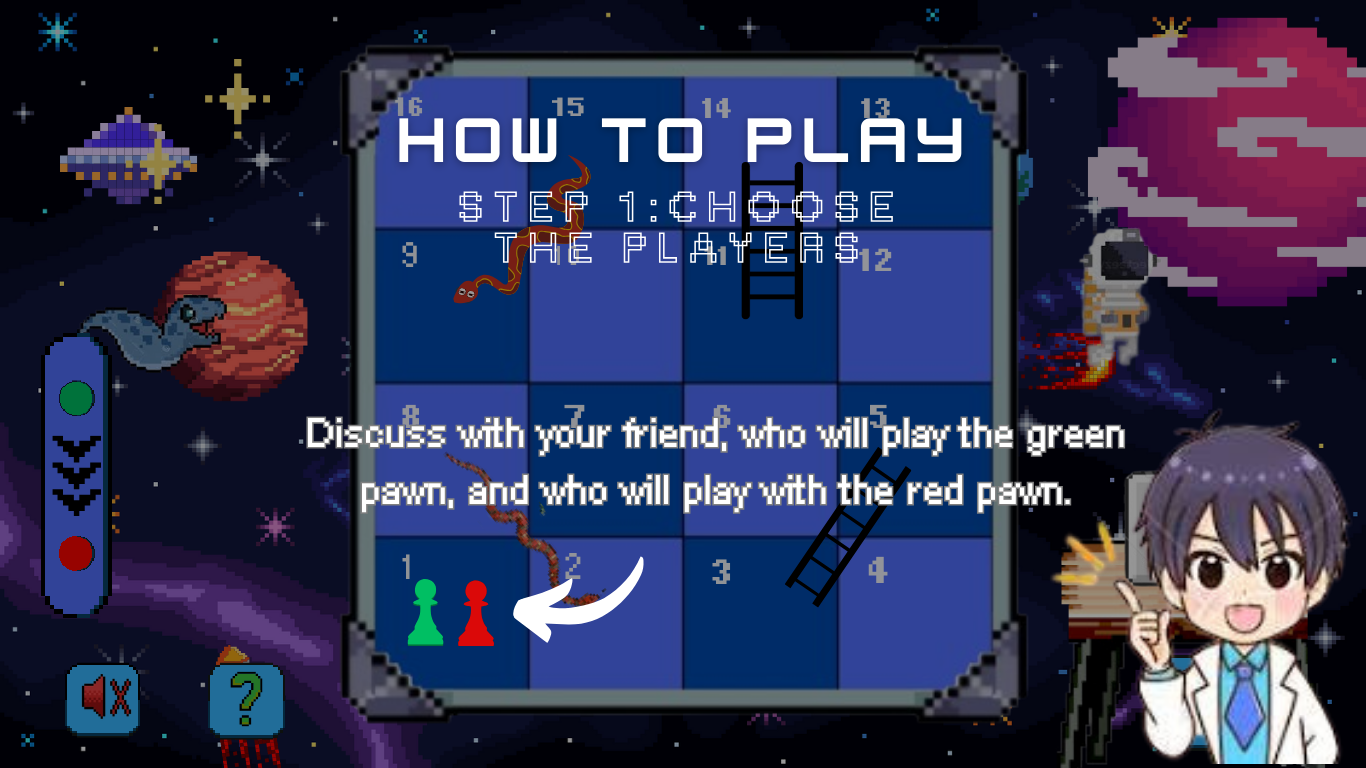
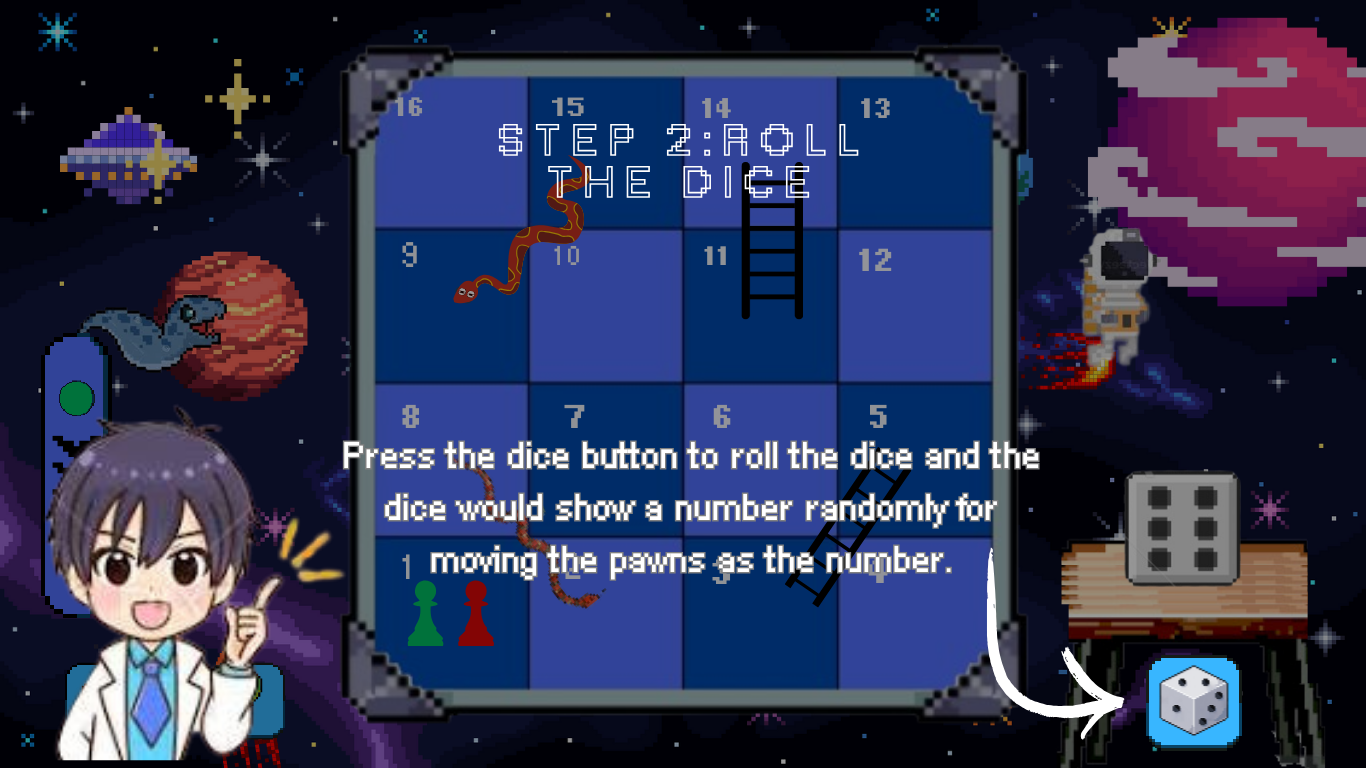
added tutorials

Changed region(s): [[0.2152, 0.5312, 1.0, 1.0], [0.0307, 0.5312, 0.246, 1.0], [0.2767, 0.1562, 0.7072, 0.3438]]

diff --git a/src/scenes/MainMenuScene.js b/src/scenes/MainMenuScene.js
@@ -1,26 +1,36 @@
 import Phaser from "phaser"
 
+let currentTutorialPage = 0
+let tutorial = undefined
+
 export default class MainMenuScene extends Phaser.Scene {
  constructor() {
   super("MainMenu")
  }
  async preload() {
-   // preload images
-   this.load.image("MainMenu BG", "images/logo logo game/Mainmenuu.bg.png")
+  this.load.audio("click", "sfx/click.mp3")
 
-   //gui
-   this.load.svg("title", "gui/title.svg")
-   this.load.svg("start", "gui/start.svg")
-   this.load.svg("start hovered", "gui/start_hover.svg")
-   this.load.svg("tutorial button", "gui/tutorial_button.svg")
+  // preload images
+  this.load.image("MainMenu BG", "images/logo logo game/Mainmenuu.bg.png")
+
+  // tutorials
+  for (let i = 1; i<7; i++) {
+    console.log(i)
+    this.load.image(`tutorialPage${i}`, `gui/Tutorials/${i}.png`)
+  }
+
+  //gui
+  this.load.svg("title", "gui/title.svg")
+  this.load.svg("start", "gui/start.svg")
+  this.load.svg("start hovered", "gui/start_hover.svg")
+  this.load.svg("tutorial button", "gui/tutorial_button.svg")
  }
  
 
  create() {
-    this.add.text(0,0,"Main Menu")
-    this.add.image(0,0,"MainMenu BG").setOrigin(0,0)
+    const sound = this.sound.add("click")
 
-    //this.add.image(64, 345, "title").setOrigin(0,0)
+    this.add.image(0,0,"MainMenu BG").setOrigin(0,0)
 
     const start_button = this.add.image(346, 695, "start")
     start_button.setOrigin(0,0)
@@ -28,19 +38,39 @@ export default class MainMenuScene extends Phaser.Scene {
     const tutorial_button = this.add.image(64, 713, "tutorial button")
     tutorial_button.setOrigin(0,0)
     tutorial_button.setInteractive({ useHandCursor: true })
+
     tutorial_button.on("pointerup", () => {
-      console.log("deez nuts")
+      sound.play()
+
+      currentTutorialPage = 1
+
+      tutorial = this.add.image(0,0,`tutorialPage${currentTutorialPage}`)
+      tutorial.setOrigin(0,0)
+      tutorial.setInteractive()
+      tutorial.on("pointerup", () => {
+        sound.play()  
+
+        if (currentTutorialPage >= 6) {
+          tutorial.destroy()
+        } else {
+          currentTutorialPage += 1
+          tutorial.setTexture(`tutorialPage${currentTutorialPage}`)
+        }
+      })
     })
    }
 
  update() {
+  const sound = this.sound.add("click")
+
    this.keys = this.input.keyboard.addKeys({
       space:  Phaser.Input.Keyboard.KeyCodes.SPACE,
   });
 
   // @ts-ignore
   if (this.keys.space.isDown) {
-   this.scene.start("MainGame")
+    sound.play()  
+    this.scene.start("MainGame")
   }
  }
 }
